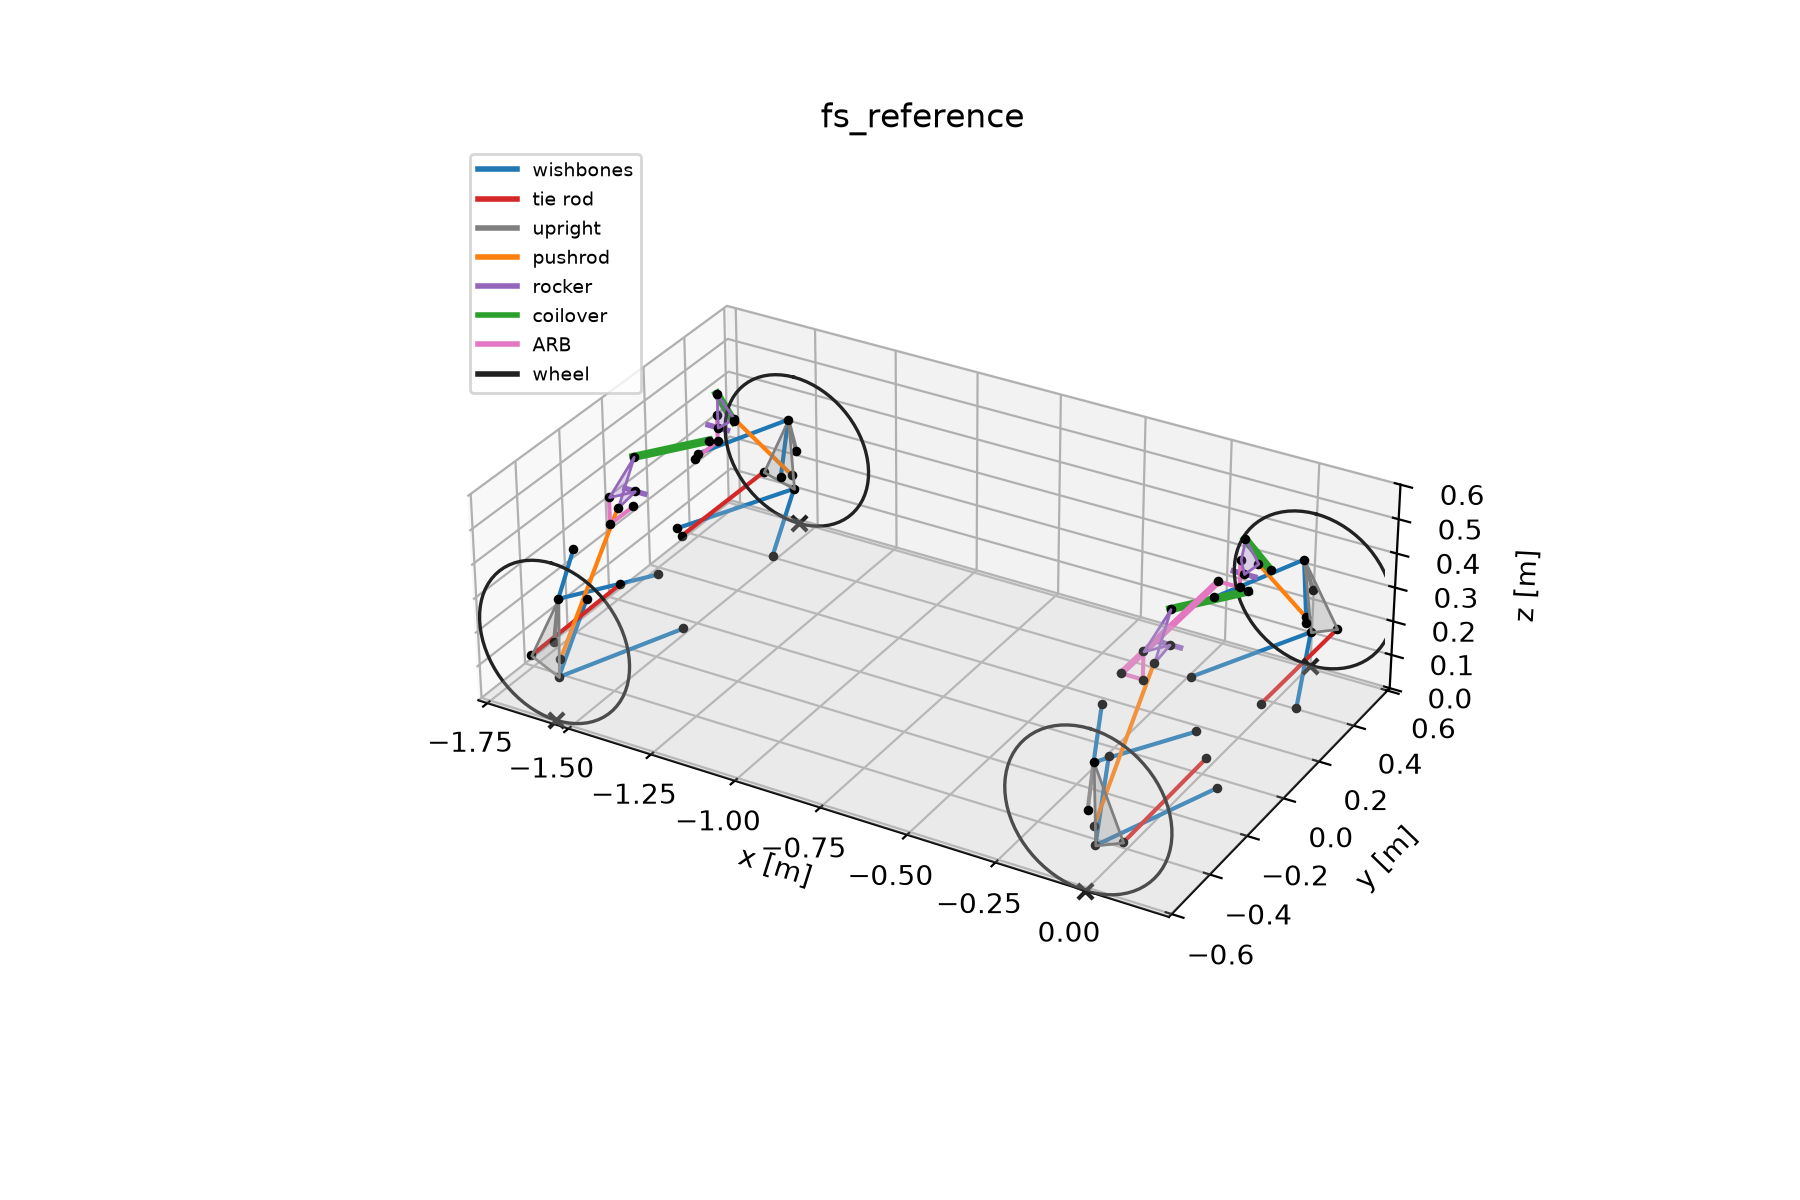
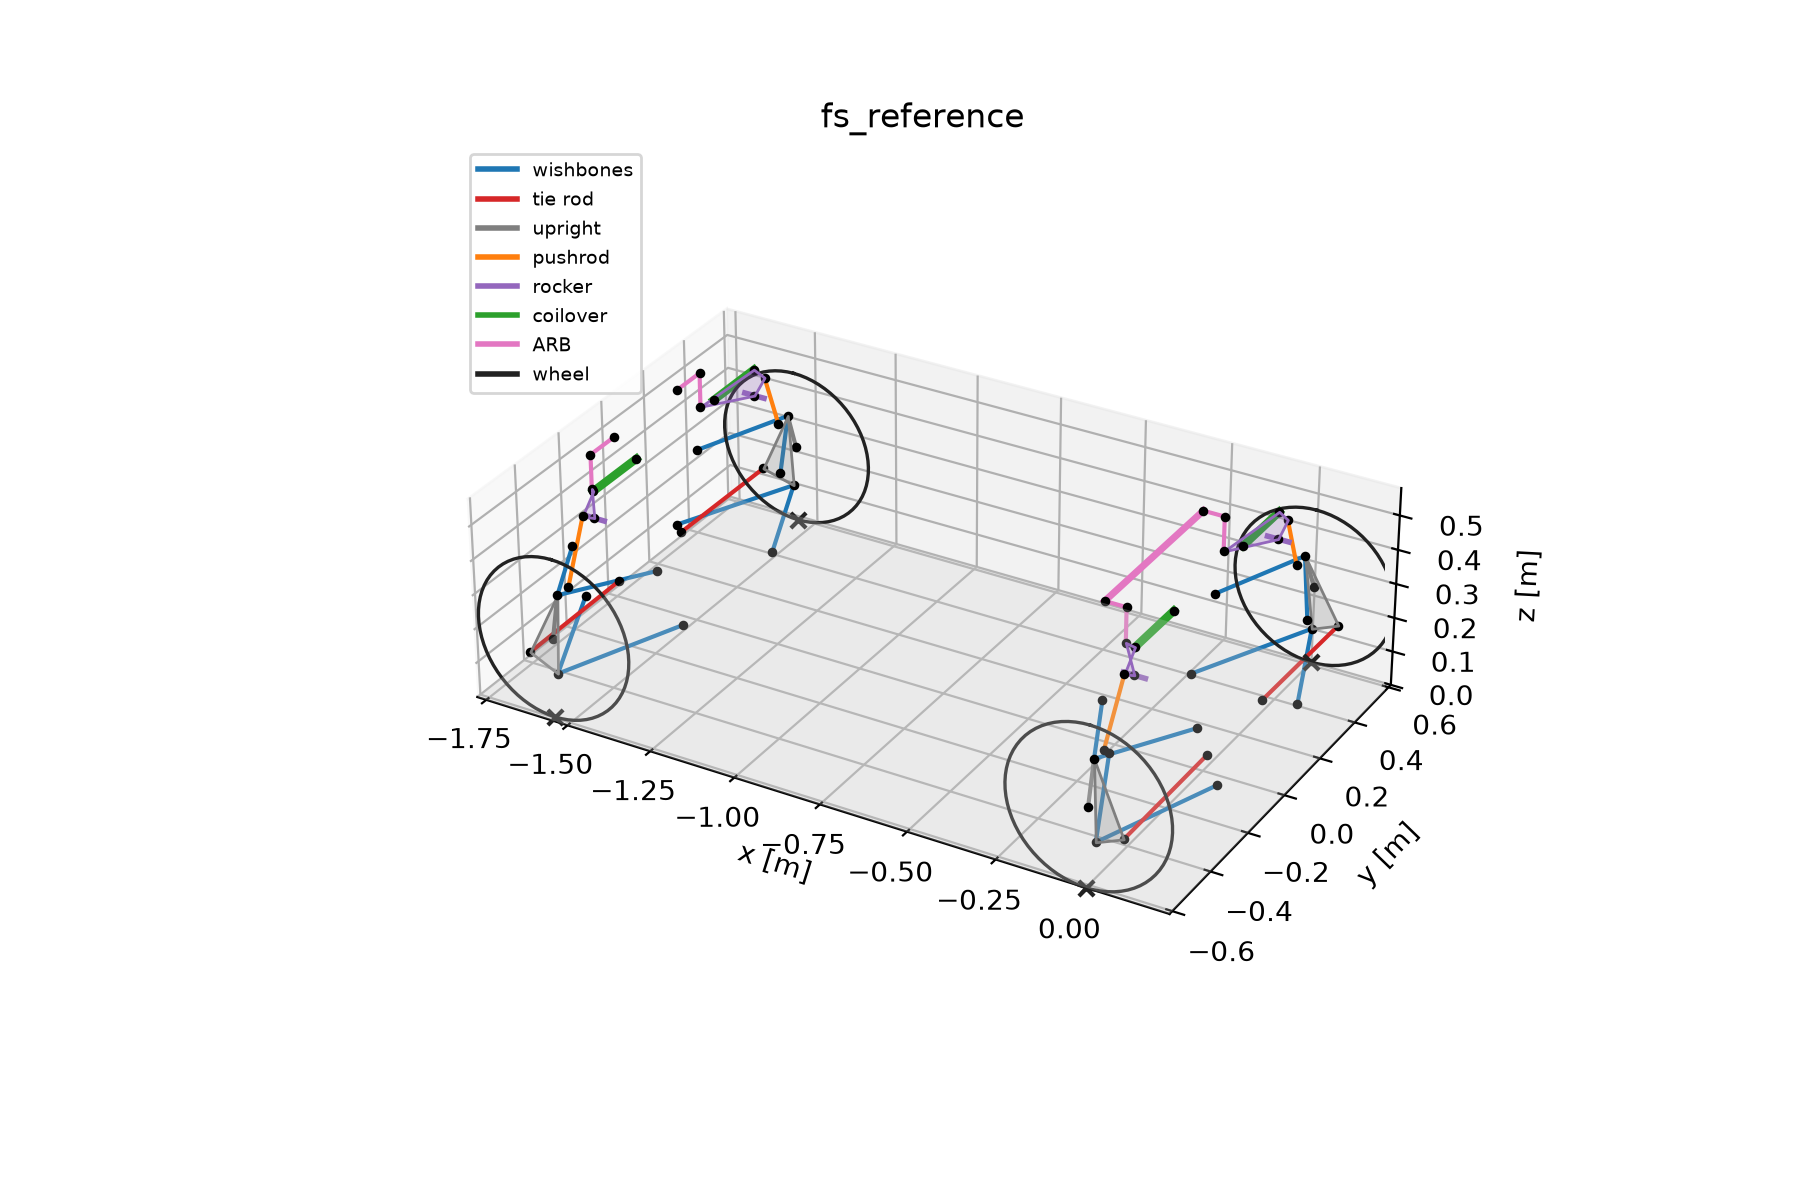
feat(config): move reference car pushrod to the upper wishbone
Pushrod mounted on the UCA on both axles, in compression up to a rocker
above the UCA; transverse coilover on top of the chassis; ARB drop links
re-located. Regression sweeps check motion ratio, progression, toggle
margin and coilover range with the real solver.

Changed region(s): [[0.2489, 0.2775, 0.84, 0.8017]]

diff --git a/tests/regression/test_reference_sweeps.py b/tests/regression/test_reference_sweeps.py
@@ -1,0 +1,73 @@
+"""Regression checks of the reference FS car (UCA pushrod, rocker above the UCA).
+
+Motion ratio is taken from the real solver by central finite difference of the
+coilover length over +-1 mm of wheel travel.
+"""
+
+from __future__ import annotations
+
+import math
+from pathlib import Path
+
+import numpy as np
+import pytest
+
+from suspkin.geometry import load_vehicle
+from suspkin.geometry.corners import build_corners
+from suspkin.kinematics import solve_corner, sweep_corner, sweep_rack
+
+CONFIG = Path(__file__).resolve().parents[2] / "configs" / "vehicles" / "fs_reference.yaml"
+TRAVELS = np.linspace(-0.030, 0.030, 61)
+MIN_TOGGLE = math.radians(25.0)
+
+
+@pytest.fixture(scope="module")
+def corners():  # type: ignore[no-untyped-def]
+    return build_corners(load_vehicle(CONFIG))
+
+
+def _motion_ratio(corner, travel: float) -> float:  # type: ignore[no-untyped-def]
+    h = 1e-3
+    lo = solve_corner(corner, travel - h).coilover_length
+    hi = solve_corner(corner, travel + h).coilover_length
+    return abs(hi - lo) / (2.0 * h)
+
+
+@pytest.mark.parametrize("cid", ["FL", "RL"])
+def test_sweep_succeeds_and_coilover_in_range(corners, cid) -> None:  # type: ignore[no-untyped-def]
+    states = sweep_corner(corners[cid], TRAVELS)
+    assert len(states) == 61
+    assert all(s.coilover_in_range for s in states)
+    assert all(s.max_residual < 1e-8 for s in states)
+
+
+@pytest.mark.parametrize("cid", ["FL", "RL"])
+def test_motion_ratio_and_progression(corners, cid) -> None:  # type: ignore[no-untyped-def]
+    corner = corners[cid]
+    mr0 = _motion_ratio(corner, 0.0)
+    assert 0.9 <= mr0 <= 1.1
+    assert abs(_motion_ratio(corner, 0.025) - _motion_ratio(corner, -0.025)) / mr0 < 0.15
+    # bump shortens the coilover
+    assert solve_corner(corner, 0.010).coilover_length < solve_corner(corner, 0.0).coilover_length
+
+
+@pytest.mark.parametrize("cid", ["FL", "RL"])
+def test_toggle_margin(corners, cid) -> None:  # type: ignore[no-untyped-def]
+    states = sweep_corner(corners[cid], TRAVELS)
+    assert min(s.toggle_margin for s in states) >= MIN_TOGGLE
+
+
+def test_front_rack_sweep(corners) -> None:  # type: ignore[no-untyped-def]
+    states = sweep_rack(corners["FL"], np.linspace(-0.025, 0.025, 21), travel=0.0)
+    assert len(states) == 21
+    assert min(s.toggle_margin for s in states) >= MIN_TOGGLE
+    assert all(s.coilover_in_range for s in states)
+
+
+@pytest.mark.parametrize(("left", "right"), [("FL", "FR"), ("RL", "RR")])
+def test_left_right_symmetry(corners, left, right) -> None:  # type: ignore[no-untyped-def]
+    for travel in (-0.025, 0.0, 0.020):
+        a = solve_corner(corners[left], travel)
+        b = solve_corner(corners[right], travel)
+        assert a.rocker_angle == pytest.approx(b.rocker_angle, abs=1e-9)
+        assert a.coilover_length == pytest.approx(b.coilover_length, abs=1e-9)

diff --git a/tests/unit/test_reference_vehicle.py b/tests/unit/test_reference_vehicle.py
@@ -101,3 +101,8 @@ def test_uca_shorter_than_lca(vehicle) -> None:  # type: ignore[no-untyped-def]
         uca = abs(h.uca_outer[1] - 0.5 * (h.uca_front[1] + h.uca_rear[1]))
         lca = abs(h.lca_outer[1] - 0.5 * (h.lca_front[1] + h.lca_rear[1]))
         assert uca < lca
+
+
+def test_pushrod_on_uca(vehicle) -> None:  # type: ignore[no-untyped-def]
+    assert vehicle.front.pushrod_mount == "uca"
+    assert vehicle.rear.pushrod_mount == "uca"
